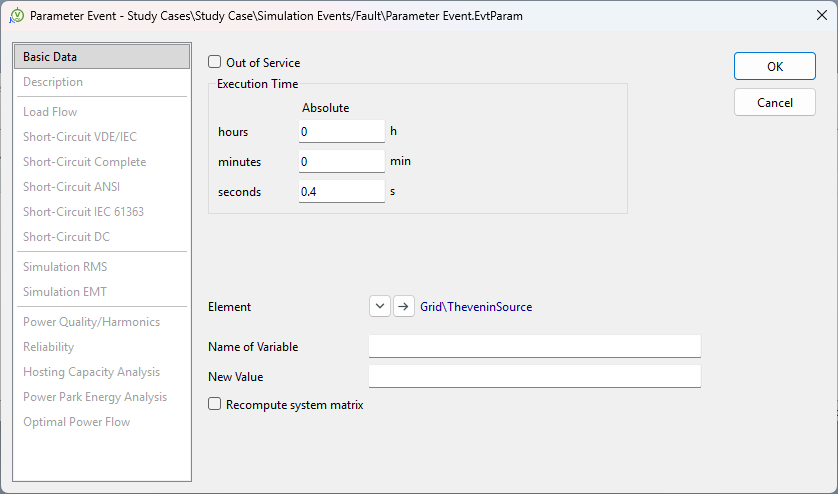
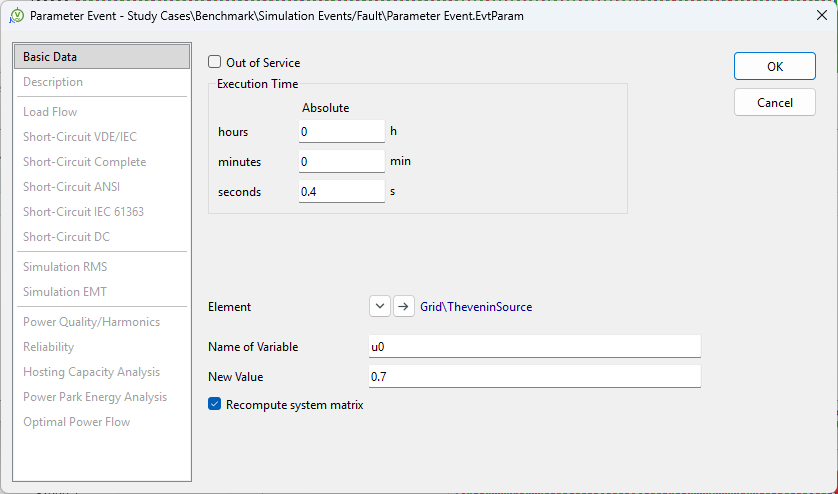
docs(PF & Paper): update

diff --git a/docs/index.rst b/docs/index.rst
@@ -9,77 +9,107 @@ Gregor Becker :sup:`1,*`, Dominik Frauenknecht :sup:`1,*`, Gert Mehlmann :sup:`1
 *******
 Summary
 *******
-
+The Simulink IEC 61400-27 DLL Builder is an open-source tool that automates the generation of dynamic-link libraries (DLLs) compliant with the IEC 61400-27 interface. 
+Integrated into MATLAB®/Simulink®, it enables control models developed in Simulink to be exported as DLLs and integrated into compatible power system simulation tools, including PSCAD™, DIgSILENT PowerFactory, and PSS®NETOMAC. 
+The Builder automates the integration of C code generated by Simulink Coder into the standardized IEC 61400-27 DLL interface. 
+It generates the required interface code and transfers relevant model and parameter information, eliminating the need for manual reimplementation of the control structure in the target simulation tool. 
+The resulting DLL can be used as a self-contained black-box model, allowing control systems to be integrated without exposing their underlying implementation. 
+This enables the same control model to be reused across different simulation tools while maintaining a consistent implementation. 
+The Builder therefore facilitates model portability and interoperability and supports the reproducible and comparable use of control models in power system simulation.
 
 *****************
 Statement of need
 *****************
+The increasing complexity of modern electrical grids has created a growing need for simulation tools capable of accurately analyzing dynamic grid behavior, including system stability and protection system performance. 
+A wide range of power system simulation tools is available, with individual tools differing substantially in their modeling capabilites, simulation methods, and intended applications. 
+Many of these tools are tailored to specific simulation domains, time scales, and levels of model detail. Consequently, the selection of a simulation tool strongly depends on the objectives of the study and the phenomena that need to be represented. 
 
-The range of electrical power system simulation tools is extensive, with each tool differing in its specific capabilities and applications (Thurner et al., 2018).
-Many tools are specialized for particular time scales or levels of model detail. 
-For example, PSCAD is widely used for electromagnetic transient (EMT) simulations (Kim et al., 2026), 
-whereas tools such as Neplan or Integral are mainly applicable to steady-state or root mean square (RMS)-based analyses (ENTSO-E, 2011). 
-Therefore, the choice of a simulation tool largely depends on the specific study objectives and the required level of model detail.
+For example, PSCAD™ is widely used for electromagnetic transient (EMT) simulations, whereas PSS®E is primarily used for phasor-based (RMS) simulations. 
+Other commercial tools, such as PSS®NETOMAC, DIgSILENT PowerFactory, and NEPLAN®, provide capabilities for both RMS and EMT simulations. 
+Despite these differences, many simulation tools are not primarily designed for the development of control structures, nor do they typically provide mechanisms for exporting such control models for a use in other simulation tools. 
+At the same time, the protection of proprietary control strategies and algorithms has contributed to the widespread use of black-box models. 
+Such models allow the external behavior of a control system to be integrated into a simulation environments without exposing its underlying implementation. 
+A standardized mechanism for exchanging dynamic models is therefore beneficial both for interoperability and for protecting model implementations.  
 
-Despite these differences, a common limitation persists across most simulation tools: 
-they are not inherently designed for developing control structures, nor do they typically provide mechanisms to export such control models for use in other simulation environments. 
-This, combined with the industry’s commercial incentive to maintain the confidentiality of their control systems, has led to the development of black-box modeling—a methodology that enables the integration of control systems into simulations without exposing proprietary algorithms. 
-This approach allows the operational behavior of a converter to be replicated while preserving the confidentiality of its underlying control design.
+To facilitate the interoperability and portability of dynamic models across simulation tools and vendors, the International Electrotechnical Commission (IEC) specifies a standardized DLL in IEC 61400-27 Annex F (International Electrotechnical Commission, 2016). 
+The standard defines the required function names, input and output parameters, and interface of the DLL. The standardized interface enables dynamic models to be exchanged and integrated across compatible simulation tools.
 
-To ensure the interoperability and portability of a model across different tools and vendors, the International Electrotechnical Commission (IEC) published IEC 61400-27 Annex F. 
-This standard defines function names, input and output parameters, and the output format of a dynamic-link library (DLL), thereby establishing a standardized data format that can be exchanged between different simulation software tools.
+MATLAB®/Simulink® is widely used for the design, development, and validation of control systems, including the control structures of power electronic converters. 
+As a general-purpose modeling tool, MATLAB®/Simulink® benefits from a large user base and a comprehensive toolboxes for implementing control algorithms and mathematical functions. 
+These capabilities make the tool particularly well suited for a rapid prototyping and validation of new component models and control strategies. 
+However, the execution speed of general-purpose modeling tools can become a limiting factor when studying large or computationally complex systems (Mahseredjian et al., 2009). 
+Exporting control models developed in MATLAB®/Simulink® as C code and integrating them into an IEC 61400-27-compliant DLL can adress this limitation. 
+Nevertheless the generated code, still needs to be integrated into the standardized DLL interface. This integration requires additional implementation effort and knowledge of both the generated code and the target interface.
 
-This DLL format serves as both the reference and target format for the DLL Builder described in this submission. 
-The Builder can export the C code of a control structure developed in MATLAB Simulink and encapsulate it within the IEC 61400-27 framework before generating a dynamic-link library (DLL) for use in various simulation tools. 
-Thus, the presented Builder leverages existing interfaces for IEC 61400-27-compliant DLLs by populating them with the user-defined control model. 
-By exporting the model and integrating the resulting DLL into a simulation program, computationally intensive approaches—such as co-simulation between DIgSILENT PowerFactory and MATLAB Simulink—can be avoided. 
-Consequently, this method enables a significant improvement in simulation performance.
+The Simulink IEC 61400-27 DLL Builder addresses this gap by automating this process. 
+It enables C code generated from a control model developed in MATLAB®/Simulink® to be incorperated into an IEC 61400-27-compliant DLL interface. 
+The resulting DLL can then be directly integrated into compatible simulation tools. 
+Thus, the Builder combines the modeling capabilities of Matlab®/Simulink® with the standardized model interface specified by IEC 61400-27 and enables user-defined control models to be transferred between compatible simulation tools without requiring their manual reimplementation.
 
-| The remainder of this documentation is organized as follows:
-| The section :doc:`How_to_use` introduces the developed IEC 61400-27 DLL Builder and explains its basic usage. The files required for the *Simulink Coder* code generation process are described in detail in the :doc:`Simulink_Coder_Section` section. Subsequently, the steps required to use the generated DLL in various simulation programs are presented, including DIgSILENT PowerFactory (see :doc:`DLL_in_PF`), PSS Netomac (see :doc:`DLL_in_Netomac`), and PSCAD (see :doc:`DLL_in_PSCAD`).
+******************
+State of the field
+******************
+Several established approaches exist for integrating control systems into power system simulation tools. 
+A straightforward approach is to manually reimplement a control model developed in MATLAB®/Simulink® directly in the selected power system simulation tool. 
+While this approach can be applied broadyly, it requires considerable implementation effort. 
+Moreover discrepancies may aries between the original and the reimplemented models, making the process susceptible to implementation errors. 
+Maintaining consistency between the two implementations becomes particulary challenging when the original control structure is modified or further developed. 
+In addition, manual reimplementation generally prevents the original model from being treated as a black-box model, as its control structure must be recreated in the target simulation tool.
+
+Another approach for exchaning dynamic models between simulation tools is the Functional Mock-up Interface (FMI) (Blochwitz et al., 2012). 
+FMI provides a standardized framework for exchanging tool-independent models between different simulation tools. 
+Within this framework, a modeling tool such as MATLAB®/Simulink® can export a dynamic system model as a Functional Mock-up Unit (FMU), which can subsequently be imported and executed by a compatible simulation tool. 
+The FMI-approach is conceptually similar to the approach implemented by the DLL Builder, as the control model is developed in one tool and subsequently integrated into another simulation tool without requiring its manual reimplementation. 
+However, support for FMU-based model integration varies between  power system simulation tools. Within the scope considered here, only a limited number of commonly used simulation tools, such as DIgSILENT PowerFactory, provide support for importing and executing FMUs. Consequently, FMU-based models cannot be directly integrated into simulation tools that do not provide the corresponding FMI functionality.
+
+Some simulation tools, such as PSS®NETOMAC and PSCAD™, also provide mechanisms for integrating user-defined DLLs. 
+These interfaces allow custom models to be implemented in compiled code and integrated directly into the simulation tool. 
+However, such interfaces are generally specific to the respective simulation tool. Consequently, a developer must adapt both the interface and implementation to the requirements of the target simulation software.
+
+A further established approach for integrating control systems with power system simulation is co-simulation. 
+In a co-simulation setup, the power system is simulated by a power system simulation tool, while the control model is simulated by a seperate modeling environment, such as MATLAB®/Simulink®. 
+Each simulation tool calculates its respective model using its own solver. Communication and synchronization between the simulation environments are therefore essential for the proper execution. 
+
+Several concepts can be used to establish this communication. For example, the Functional Mock-up Interface (FMI) provides a standarized framework for co-simulation (Blochwitz et al., 2012), 
+while shared memory approaches can be used for data exchange between simulation tools (Scheibe et al., 2019), too. 
+However, co-simulation requires both simulation tools to remain available during the simulation, which can increase the computational and implementation effort. 
+Furthermore, the control model remains separated from the power system simulation tool, meaning that the control model must be executed through the coupled modeling tool rather than being directly integrated into the target simulation tool. 
+Consequently, the control model cannot be provided as a self-contained black-box model that can be directly integrated into the target simulation environment.
 
 *************** 
 Software design
 ***************
-
-The software design of the Simulink IEC 61400-27 DLL Builder is largely determined by the established structure of MATLAB/Simulink, as it is integrated into the functionality provided by the Simulink Coder application.
-
-Within the constraints of this environment, the design emphasizes modularity and extensibility. Accordingly, the required working directory comprises two Target Language Compiler (TLC) files, two MATLAB scripts (.m), two header files (.h), one compiled S-Function, and one Template Makefile (TMF), as summarized in Table 1.
+The design of the Simulink IEC 61400-27 DLL Builder is closely aligned with the code-generation workflow provided by MATLAB®/Simulink® and Simulink Coder. 
+The Builder is implemented as a collection of System Target File, Template Makefile, MATLAB, TLC, and C interface components that extend the standard code-generation process. 
+The design emphasizes modularity and extensibility within the Simulink Coder framework. The working directory required for DLL generation contains the files listed in Table 1.
 
 **Table 1: Files required for IEC 61400-27 DLL generation**
 
 +-----------------------------------+------------------------------------------------------------------------------------------------------------------------------+
 | File                              | Function                                                                                                                     |
 +===================================+==============================================================================================================================+
-| `IEC61400_27_DLL.tlc`             | System Target File that controls the Simulink code generation process and the creation of the controller DLL.                |
+| `IEC61400_27_DLL.tlc`             | System Target File controlling the Simulink code-generation process and the creation of the model DLL.                       |
 +-----------------------------------+------------------------------------------------------------------------------------------------------------------------------+
-| `IEC61400_27_DLL.tmf`             | Template makefile used during the compilation and linking of the generated C code.                                           |
+| `IEC61400_27_DLL.tmf`             | Template Makefile used during compilation and linking of the generated C code.                                               |
 +-----------------------------------+------------------------------------------------------------------------------------------------------------------------------+
 | `IEC61400_27_DLL_make_rtw_hook.m` | Build hook executed after code generation and before the DLL is built. It exports the parameter descriptions, units, and     |
 |                                   | limits to `ParameterMetadata.tlc` by invoking `getParamMetadataRTW.m`.                                                       |
 +-----------------------------------+------------------------------------------------------------------------------------------------------------------------------+
-| `getParamMetadataRTW.m`           | MATLAB script that implements the export of the parameter metadata.                                                          |
+| `getParamMetadataRTW.m`           | MATLAB® script implementing the export of parameter metadata.                                                                |
 +-----------------------------------+------------------------------------------------------------------------------------------------------------------------------+
-| `ext_simenv_capi.h`               | C API header that defines the IEC 61400-27 interface every generated DLL must implement.                                     |
+| `ext_simenv_capi.h`               | C API header defining the IEC 61400-27 interface that each generated DLL must implement.                                     |
 +-----------------------------------+------------------------------------------------------------------------------------------------------------------------------+
-| `ext_simenv_types.h`              | C API header that defines the data types used by the IEC 61400-27 interface.                                                 |
+| `ext_simenv_types.h`              | C API header defining the data types required by the IEC 61400-27 interface.                                                 |
 +-----------------------------------+------------------------------------------------------------------------------------------------------------------------------+
 | `sfun_info.mexw64`                | Compiled S-Function that triggers `sfun_info.tlc` during code generation.                                                    |
 +-----------------------------------+------------------------------------------------------------------------------------------------------------------------------+
-| `sfun_info.tlc`                   | The TLC file generates the additional C source required for the controller DLL.                                              |
+| `sfun_info.tlc`                   | TLC file generating the additional C source code required for the model DLL.                                                 |
 +-----------------------------------+------------------------------------------------------------------------------------------------------------------------------+
 
-While several of these files support the preparation and compilation of the IEC 61400-27 DLL, `IEC61400_27_DLL.tlc` serves as the entry point of the code generation process. This TLC file is detected by the Simulink Coder application when it is placed in the MATLAB working directory. After selecting the corresponding System Target File and providing the required DLL metadata in the DLL Builder's graphical interface, the DLL build process can be initiated.
-
-During the DLL creation process, the Simulink Coder application first uses the TMF file to generate a makefile that defines the compilation, linking, and build process for the DLL of the Simulink model under consideration. Since the final output is a dynamically linked library, the linking and build steps are largely predefined by the required DLL structure. As a result, the control logic implemented in the Simulink model primarily influences the compilation of the generated model code, rather than the linking and build steps themselves. The Simulink IEC 61400-27 DLL Builder determines which generated source files are included and subsequently linked as part of the DLL build process.
-
-The overall build process is primarily controlled by `IEC61400_27_DLL.tlc`. During code generation, this TLC file detects the model information file `model_info.mdl` — which holds metadata about the Simulink model being built — together with the compiled S-Function `sfun_info.mexw64`, thereby triggering both `IEC61400_27_DLL_make_rtw_hook.m` and `sfun_info.tlc`. The `IEC61400_27_DLL_make_rtw_hook.m` script extracts the relevant Simulink parameter information, including parameter names, values, minimum and maximum limits, and units, and stores this information in `ParameterMetadata.tlc`.
-
-This metadata is subsequently used during the generation of the C source code that constitutes the core logic of the IEC 61400-27 DLL. The generation of this source code is handled by `sfun_info.tlc`. This Target Language Compiler file creates a temporary `IEC61400_27.c` file that must fulfill the syntactic and semantic requirements specified in IEC 61400-27 Annex F. To achieve this, it loads the parameter information extracted by `IEC61400_27_DLL_make_rtw_hook.m` together with the available model logic, and maps the corresponding Simulink code methods to the methods defined by IEC 61400-27 Annex F.
-
-Once the `IEC61400_27.c` file has been generated, the compilation, linking, and build process is initiated. During this stage, the generated source files and the required interface files are compiled and linked according to the specifications defined by the TMF and the corresponding build configuration. The resulting output is the IEC 61400-27-compliant DLL.
-
-Figure 1 illustrates the relationship between the individual files located in the working directory and their respective roles within the DLL generation process.
+The central component of the build process is IEC61400_27_DLL.tlc, which acts as the entry point for DLL generation. 
+The file is detected by Simulink Coder when it is placed in the MATLAB working directory and selected as the System Target File. 
+After the required DLL metadata have been specified through the Builder's graphical interface, the DLL generation process can be initiated. 
+The relationship between the individual files and their respective functions is illustrated in Figure 1.
 
 .. figure:: ./publications/UML_Diagramm.svg
    :alt: UML diagramm of the Simulink IEC 61400-27 DLL builder
@@ -87,18 +117,53 @@ Figure 1 illustrates the relationship between the individual files located in th
    :target: _images/UML_Diagramm.svg
 
    Figure 1: UML diagramm of the Simulink IEC 61400-27 DLL builder.
-	
+
+During DLL generation, the Simulink Coder uses the Template Makefile (TMF) to generate a makefile defining the compilation, linking, and build process for the Simulink model. 
+Since the target artifact is a DLL, the linking and build steps follow a largely predefined structure. 
+The components provided by the DLL Builder primarily influence the compilation of the generated model code and determine which generated source files are included in the final DLL.
+
+The overall build process is controlled by `IEC61400_27_DLL.tlc`. 
+During code generation, this Target Language Compiler (TLC) file accesses the model information file `model_info.mdl`, which contains metadata associated with the Simulink® model being built, together with the compiled S-Function `sfun_info.mexw64`. 
+This initiates the execution of `IEC61400_27_DLL_make_rtw_hook.m` and `sfun_info.tlc`. 
+
+The `IEC61400_27_DLL_make_rtw_hook.m` script extracts the relevant Simulink® parameter information, including parameter names, values, minimum and maximum limits, and units. 
+This information is stored in `ParameterMetadata.tlc` and is subsequently used during the generation of the C source code implementing the IEC 61400-27 interface.
+
+The generation of this interface source code is performed by `sfun_info.tlc`. 
+This TLC file creates a temporary `IEC61400_27.c` source file that implements the syntactic and semantic requirements defined by IEC 61400-27 Annex F (International Electrotechnical Commission, 2016). 
+To achieve this, the TLC files combines the extracted parameter information with the generated model code and maps the corresponding Simulink® code methods to the methods defined in the standard.
+
+Once the `IEC61400_27.c` file has been generated, the compilation, linking, and build process is initiated. 
+The generated source files and the required interface files are compiled and linked according to the specifications defined by the TMF and the corresponding build configuration. 
+The resulting output is an IEC 61400-27-compliant DLL that can be integrated into compatible power system simulation tools.
+
+*************************
+Research impact statement
+*************************
+The main contribution of the developed tool is the abstraction of control models from specific simulation environments. 
+Models can be exchanged and integrated as black-box components, reducing the dependency between the controller and individual simulation frameworks. 
+This facilitates the reuse of existing models and the transfer of control approaches between different simulation environments.
+
+The tool has already been applied in several research and development projects, as well as in student projects and academic work. 
+Although publications explicitly reporting results obtained with the tool are not yet available, discussions in online forums, open repositories, 
+and with industry partners indicate a recurring need for solutions that support the exchange and reproducible use of control models across simulation environments. 
+The developed approach therefore addresses a practical gap in heterogeneous simulation ecosystems and has the potential to improve the reusability, 
+comparability, and transferability of simulation-based control research (Huang & Cetinkaya, 2026).
+
+
 **********
 References
 **********
 
-Thurner, L., Scheidler, A., Schafer, F., Menke, J.-H., Dollichon, J., Meier, F., Meinecke, S., Braun, M. (2018). Pandapower — An Open-Source Python Tool for Convenient Modeling, Analysis, and Optimization of Electric Power Systems. IEEE Transactions on Power Systems,  33(6). http://dx.doi.org/10.1109/TPWRS.2018.2829021
+Blochwitz, T., Otter, M., Åkesson, J., Arnold, M., Clauss, C., Elmqvist, H., Friedrich, M., Junghanns, A., Mauss, J., Neumerkel, D., Olsson, H., & Viel, A. (2012). Functional mockup interface 2.0: The standard for tool independent exchange of simulation models. *Proceedings of the 9th International Modelica Conference*, 173–184. https://doi.org/10.3384/ecp12076173
 
-Kim, B.-G., Moon, C.-J., Choi, S.-H., Choi, Y.-S., Lee, K.-M. (2026). PSCAD-Based Analysis of Short-Circuit Faults and Protection Characteristics in a Real BESS-PV Microgrid. Energies 19(3), 598. https://doi.org/10.3390/en19030598
+Huang, Y., & Cetinkaya, D. (2026). Advancing reproducibility and replicability in simulation: Challenges and opportunities.  *SIMULATION*, *102*(9), 577–593. https://doi.org/10.1177/00375497261444678
 
-European Network of Transmission System Operators for Electricity – ENTSO-E (2011). INTEROPERABILITY TEST ― CIM FOR SYSTEM DEVELOPMENT AND OPERATIONS. 
+International Electrotechnical Commission. (2016). *IEC 61400-27-1:2016: Wind energy generation systems – Part 27-1: Electrical simulation models – Generic models* [Standard].
 
+Mahseredjian, J., Dinavahi, V., \& Martinez, J. A. (2009). Simulation tools for electromagnetic transients in power systems: Overview and challenges. *IEEE Transactions on Power Delivery*, *24*(3), 1657–1669. https://doi.org/10.1109/TPWRD.2008.2008480
 
+Scheibe, C., Semerow, A., Menke, J., Seta, P. la, Raab, A., Mehlmann, G., & Luther, M. (2019). A novel co-simulation concept using interprocess communication in shared memory. *2019 IEEE Power & Energy Society General Meeting (PESGM)*, 1–5. https://doi.org/10.1109/PESGM40551.2019.8973964
 
 .. toctree::
    :maxdepth: 3

diff --git a/docs/DLL_in_PF.rst b/docs/DLL_in_PF.rst
@@ -619,8 +619,6 @@ Adding a voltage dip event for the simulation benchmark
 -------------------------------------------------------
 To include a voltage dip simulation event which is used within the upcoming `benchmark <https://simulink-dll-builder.readthedocs.io/en/latest/Benchmark.html#>`_ one has to open the ``Edit Simulation Events`` menu (see Figure 57).
 Therin one has to add a new ``Parameter Event`` by clicking ``New Object`` in the upper-left corner and ``Parameter Event`` afterwards (see Figure 58). 
-In the new upcoming window (see Figure 59) the influenced element (the TheveninSource) as well as the timestamp of the events occation need to be defined. 
-Finally the event creation is finished by clicking ``OK`` and ``Close``.
 
 .. container:: image-row
 
@@ -635,9 +633,23 @@ Finally the event creation is finished by clicking ``OK`` and ``Close``.
         :target: _images/NewEvent.png
 
         Figure 58: Create a new Simulation Event.
-    
-    ..  figure:: ./images/PowerFactory/SetupVoltageDip.png
+
+In the new window that appears (see Figure 59), the influenced element (**TheveninSource**) and the timestamp at which the event occurs need to be defined.
+The parameter to be changed by the parameter event is **u0**, the initial voltage of the voltage source. This value must be entered in **per-unit (p.u.)**. For the voltage step shown in the example, **u0 = 0.7 p.u.**
+Finally, the event creation is completed by clicking **OK** and then **Close**.
+When using the parameter **u0** for the voltage dip event, the input setting of the Thevenin voltage source must also be changed for EMT simulations.
+To do this, double-click the voltage source, navigate to **Simulation EMT**, and then select **Advanced**. In the **Voltage input** parameter, select **u0 (p.u.)** as the input, as shown in Figure 60.
+
+.. container:: image-row
+
+ ..  figure:: ./images/PowerFactory/SetupVoltageDip.png
         :alt: Settings of the voltage dip event on the Thevenin Source.
         :target: _images/SetupVoltageDip.png
 
         Figure 59: Settings of the voltage dip event on the Thevenin Source.
+
+ ..  figure:: ./images/PowerFactory/VoltageSourceVoltageDip.png
+        :alt: Settings of the voltage source for the voltage dip event.
+        :target: _images/VoltageSourceVoltageDip.png
+
+        Figure 60: Settings of the voltage source for the voltage dip event.
